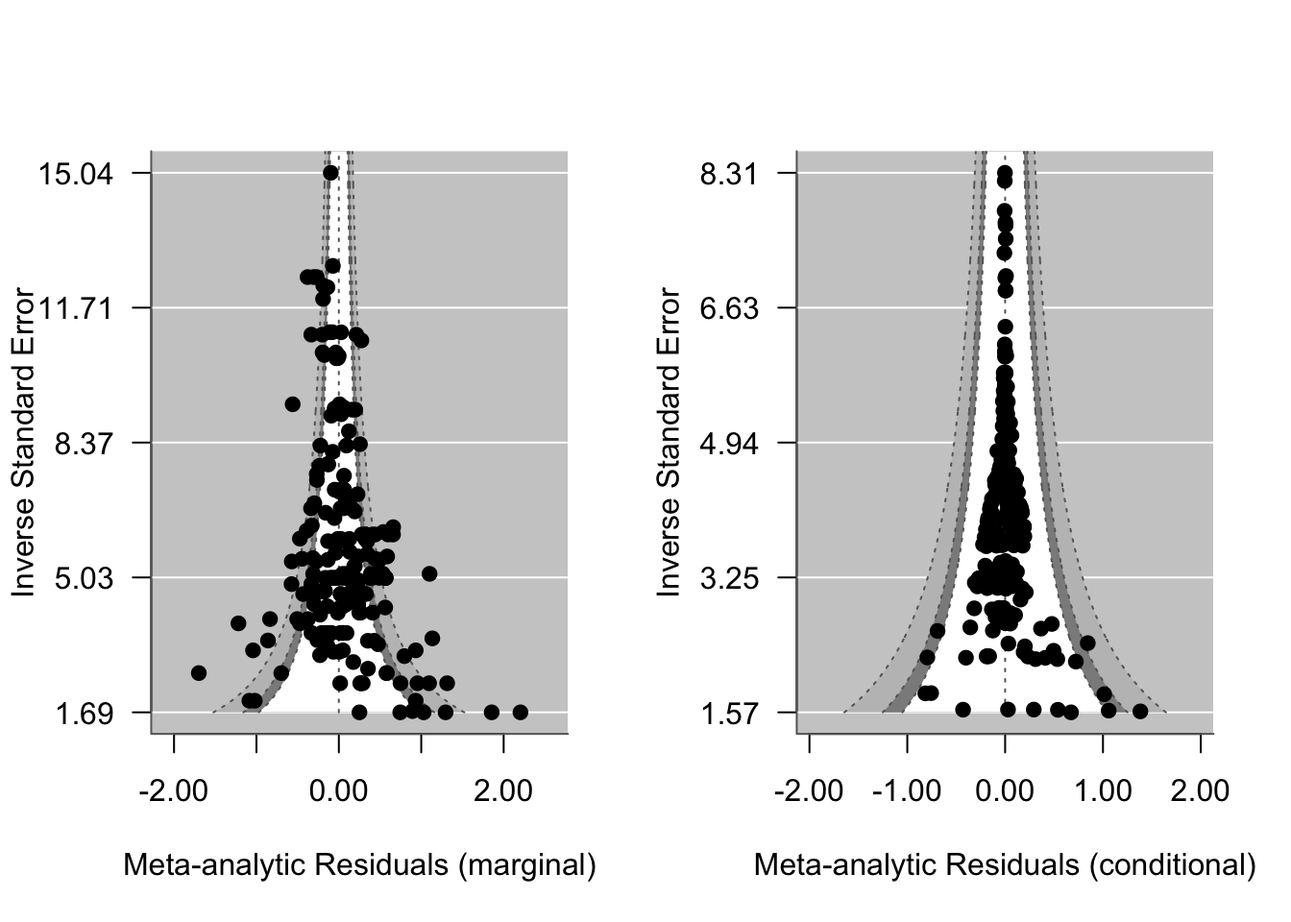
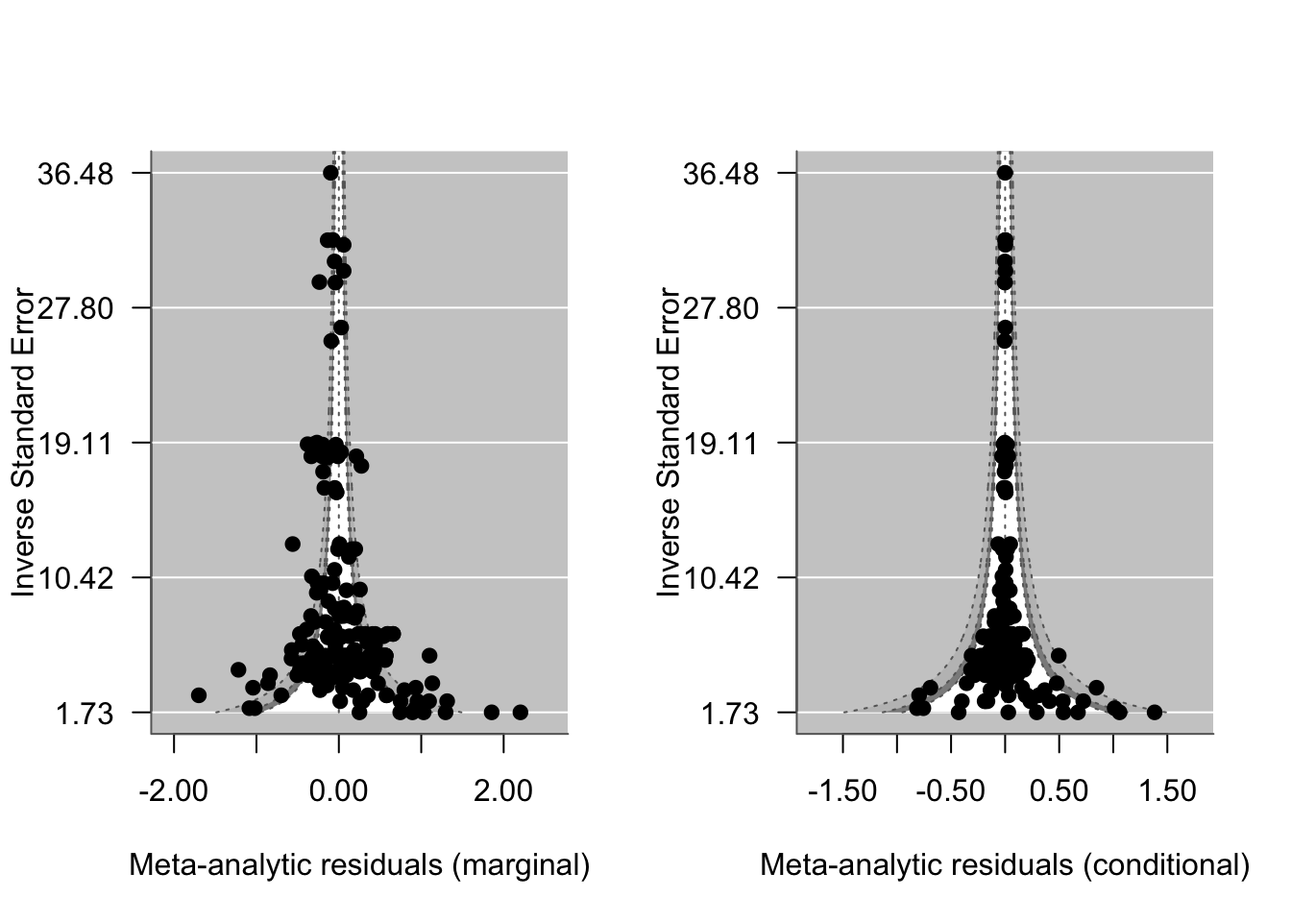
Found a mistake so fixed

diff --git a/_book/pub-bias1.html b/_book/pub-bias1.html
@@ -613,27 +613,34 @@ Signif. codes:  0 '***' 0.001 '**' 0.01 '*' 0.05 '.' 0.1 ' ' 1</code></pre>
 <div class="cell" data-layout-align="center">
 <details open="" class="code-fold">
 <summary>Code</summary>
-<div class="sourceCode cell-code" id="cb7"><pre class="sourceCode r code-with-copy"><code class="sourceCode r"><span id="cb7-1"><a href="#cb7-1" aria-hidden="true" tabindex="-1"></a><span class="co"># Extract residuals based on the fixed effect predictions (marginal) and the fixed and random effect (conditional)</span></span>
-<span id="cb7-2"><a href="#cb7-2" aria-hidden="true" tabindex="-1"></a>resid_marg <span class="ot">&lt;-</span> arnold_data_endo<span class="sc">$</span>Zr <span class="sc">-</span> <span class="fu">predict</span>(metareg)[[<span class="dv">1</span>]]     <span class="co"># Calculates the residuals based on fixed effects only</span></span>
-<span id="cb7-3"><a href="#cb7-3" aria-hidden="true" tabindex="-1"></a> vi_residm <span class="ot">&lt;-</span> arnold_data_endo<span class="sc">$</span>Zr_v <span class="sc">+</span> <span class="fu">predict</span>(metareg)[[<span class="dv">2</span>]]<span class="sc">^</span><span class="dv">2</span> <span class="co"># Adds prediction errors</span></span>
-<span id="cb7-4"><a href="#cb7-4" aria-hidden="true" tabindex="-1"></a> </span>
-<span id="cb7-5"><a href="#cb7-5" aria-hidden="true" tabindex="-1"></a><span class="co"># Conditional requires random effect blups for study (Ref) and effect size obs</span></span>
-<span id="cb7-6"><a href="#cb7-6" aria-hidden="true" tabindex="-1"></a> blups <span class="ot">&lt;-</span> <span class="fu">ranef</span>(metareg)  <span class="co"># extracts blups for each random effect. Stored as a list.</span></span>
-<span id="cb7-7"><a href="#cb7-7" aria-hidden="true" tabindex="-1"></a></span>
-<span id="cb7-8"><a href="#cb7-8" aria-hidden="true" tabindex="-1"></a> study_ef <span class="ot">&lt;-</span> blups<span class="sc">$</span>Ref[[<span class="dv">1</span>]][<span class="fu">match</span>(arnold_data_endo<span class="sc">$</span>Ref, <span class="fu">row.names</span>(blups<span class="sc">$</span>Ref))] <span class="co"># This code will expand each random effect for study out to match the study ID across the entire dataset</span></span>
-<span id="cb7-9"><a href="#cb7-9" aria-hidden="true" tabindex="-1"></a>study_vi <span class="ot">&lt;-</span> (blups<span class="sc">$</span>Ref[[<span class="dv">2</span>]][<span class="fu">match</span>(arnold_data_endo<span class="sc">$</span>Ref, <span class="fu">row.names</span>(blups<span class="sc">$</span>Ref))])<span class="sc">^</span><span class="dv">2</span></span>
-<span id="cb7-10"><a href="#cb7-10" aria-hidden="true" tabindex="-1"></a></span>
-<span id="cb7-11"><a href="#cb7-11" aria-hidden="true" tabindex="-1"></a>effect_effect <span class="ot">&lt;-</span> blups<span class="sc">$</span>obs[[<span class="dv">1</span>]]</span>
-<span id="cb7-12"><a href="#cb7-12" aria-hidden="true" tabindex="-1"></a>    vi_effect <span class="ot">&lt;-</span> blups<span class="sc">$</span>obs[[<span class="dv">1</span>]]<span class="sc">^</span><span class="dv">2</span></span>
-<span id="cb7-13"><a href="#cb7-13" aria-hidden="true" tabindex="-1"></a></span>
-<span id="cb7-14"><a href="#cb7-14" aria-hidden="true" tabindex="-1"></a> <span class="co"># Now we have everything we need to calculate residuals</span></span>
-<span id="cb7-15"><a href="#cb7-15" aria-hidden="true" tabindex="-1"></a>     resid_cond <span class="ot">&lt;-</span> arnold_data_endo<span class="sc">$</span>Zr <span class="sc">-</span> (<span class="fu">predict</span>(metareg)[[<span class="dv">1</span>]] <span class="sc">+</span> study_ef <span class="sc">+</span> effect_effect)</span>
-<span id="cb7-16"><a href="#cb7-16" aria-hidden="true" tabindex="-1"></a>  vi_resid_cond <span class="ot">&lt;-</span> vi_residm <span class="sc">+</span> study_vi <span class="sc">+</span> vi_effect</span>
-<span id="cb7-17"><a href="#cb7-17" aria-hidden="true" tabindex="-1"></a></span>
-<span id="cb7-18"><a href="#cb7-18" aria-hidden="true" tabindex="-1"></a><span class="co"># Lets make a funnel plot to visualize the data in relation to the precision, inverse sampling standard error, </span></span>
-<span id="cb7-19"><a href="#cb7-19" aria-hidden="true" tabindex="-1"></a><span class="fu">par</span>(<span class="at">mfrow =</span> <span class="fu">c</span>(<span class="dv">1</span>,<span class="dv">2</span>))</span>
-<span id="cb7-20"><a href="#cb7-20" aria-hidden="true" tabindex="-1"></a>metafor<span class="sc">::</span><span class="fu">funnel</span>(<span class="at">x =</span> resid_marg, <span class="at">vi =</span> vi_residm, <span class="at">yaxis =</span> <span class="st">"seinv"</span>, <span class="at">digits =</span> <span class="dv">2</span>, <span class="at">level =</span> <span class="fu">c</span>(<span class="fl">0.1</span>, <span class="fl">0.05</span>, <span class="fl">0.01</span>), <span class="at">shade =</span> <span class="fu">c</span>(<span class="st">"white"</span>, <span class="st">"gray55"</span>, <span class="st">"gray 75"</span>), <span class="at">las =</span> <span class="dv">1</span>, <span class="at">xlab =</span> <span class="st">"Meta-analytic Residuals (marginal)"</span>, <span class="at">legend =</span> <span class="cn">FALSE</span>)</span>
-<span id="cb7-21"><a href="#cb7-21" aria-hidden="true" tabindex="-1"></a>metafor<span class="sc">::</span><span class="fu">funnel</span>(<span class="at">x =</span> resid_cond, <span class="at">vi =</span> vi_resid_cond, <span class="at">yaxis =</span> <span class="st">"seinv"</span>, <span class="at">digits =</span> <span class="dv">2</span>, <span class="at">level =</span> <span class="fu">c</span>(<span class="fl">0.1</span>, <span class="fl">0.05</span>, <span class="fl">0.01</span>), <span class="at">shade =</span> <span class="fu">c</span>(<span class="st">"white"</span>, <span class="st">"gray55"</span>, <span class="st">"gray 75"</span>), <span class="at">las =</span> <span class="dv">1</span>, <span class="at">xlab =</span> <span class="st">"Meta-analytic Residuals (conditional)"</span>, <span class="at">legend =</span> <span class="cn">FALSE</span>)</span></code><button title="Copy to Clipboard" class="code-copy-button"><i class="bi"></i></button></pre></div>
+<div class="sourceCode cell-code" id="cb7"><pre class="sourceCode r code-with-copy"><code class="sourceCode r"><span id="cb7-1"><a href="#cb7-1" aria-hidden="true" tabindex="-1"></a><span class="co"># Marginal residuals: observed - fixed-effect prediction</span></span>
+<span id="cb7-2"><a href="#cb7-2" aria-hidden="true" tabindex="-1"></a>resid_marg <span class="ot">&lt;-</span> arnold_data_endo<span class="sc">$</span>Zr <span class="sc">-</span> <span class="fu">predict</span>(metareg)[[<span class="dv">1</span>]]</span>
+<span id="cb7-3"><a href="#cb7-3" aria-hidden="true" tabindex="-1"></a></span>
+<span id="cb7-4"><a href="#cb7-4" aria-hidden="true" tabindex="-1"></a><span class="co"># BLUPs for each random effect (study-level "Ref" and effect-size-level "obs")</span></span>
+<span id="cb7-5"><a href="#cb7-5" aria-hidden="true" tabindex="-1"></a>blups    <span class="ot">&lt;-</span> <span class="fu">ranef</span>(metareg)</span>
+<span id="cb7-6"><a href="#cb7-6" aria-hidden="true" tabindex="-1"></a>study_ef <span class="ot">&lt;-</span> blups<span class="sc">$</span>Ref[[<span class="dv">1</span>]][<span class="fu">match</span>(arnold_data_endo<span class="sc">$</span>Ref, <span class="fu">row.names</span>(blups<span class="sc">$</span>Ref))]</span>
+<span id="cb7-7"><a href="#cb7-7" aria-hidden="true" tabindex="-1"></a>obs_ef   <span class="ot">&lt;-</span> blups<span class="sc">$</span>obs[[<span class="dv">1</span>]]</span>
+<span id="cb7-8"><a href="#cb7-8" aria-hidden="true" tabindex="-1"></a></span>
+<span id="cb7-9"><a href="#cb7-9" aria-hidden="true" tabindex="-1"></a><span class="co"># Conditional residuals: observed - fixed - study BLUP - obs BLUP</span></span>
+<span id="cb7-10"><a href="#cb7-10" aria-hidden="true" tabindex="-1"></a>resid_cond <span class="ot">&lt;-</span> arnold_data_endo<span class="sc">$</span>Zr <span class="sc">-</span></span>
+<span id="cb7-11"><a href="#cb7-11" aria-hidden="true" tabindex="-1"></a>              (<span class="fu">predict</span>(metareg)[[<span class="dv">1</span>]] <span class="sc">+</span> study_ef <span class="sc">+</span> obs_ef)</span>
+<span id="cb7-12"><a href="#cb7-12" aria-hidden="true" tabindex="-1"></a></span>
+<span id="cb7-13"><a href="#cb7-13" aria-hidden="true" tabindex="-1"></a><span class="co"># Funnel plots use the sampling variance (Zr_v) on the y-axis so the</span></span>
+<span id="cb7-14"><a href="#cb7-14" aria-hidden="true" tabindex="-1"></a><span class="co"># theoretical cone reflects sampling-only spread; any scatter beyond the cone</span></span>
+<span id="cb7-15"><a href="#cb7-15" aria-hidden="true" tabindex="-1"></a><span class="co"># represents residual heterogeneity or bias.</span></span>
+<span id="cb7-16"><a href="#cb7-16" aria-hidden="true" tabindex="-1"></a><span class="fu">par</span>(<span class="at">mfrow =</span> <span class="fu">c</span>(<span class="dv">1</span>, <span class="dv">2</span>))</span>
+<span id="cb7-17"><a href="#cb7-17" aria-hidden="true" tabindex="-1"></a>metafor<span class="sc">::</span><span class="fu">funnel</span>(<span class="at">x =</span> resid_marg, <span class="at">vi =</span> arnold_data_endo<span class="sc">$</span>Zr_v,</span>
+<span id="cb7-18"><a href="#cb7-18" aria-hidden="true" tabindex="-1"></a>                <span class="at">yaxis =</span> <span class="st">"seinv"</span>, <span class="at">digits =</span> <span class="dv">2</span>,</span>
+<span id="cb7-19"><a href="#cb7-19" aria-hidden="true" tabindex="-1"></a>                <span class="at">level =</span> <span class="fu">c</span>(<span class="fl">0.1</span>, <span class="fl">0.05</span>, <span class="fl">0.01</span>),</span>
+<span id="cb7-20"><a href="#cb7-20" aria-hidden="true" tabindex="-1"></a>                <span class="at">shade =</span> <span class="fu">c</span>(<span class="st">"white"</span>, <span class="st">"gray55"</span>, <span class="st">"gray75"</span>),</span>
+<span id="cb7-21"><a href="#cb7-21" aria-hidden="true" tabindex="-1"></a>                <span class="at">las =</span> <span class="dv">1</span>, <span class="at">xlab =</span> <span class="st">"Meta-analytic residuals (marginal)"</span>,</span>
+<span id="cb7-22"><a href="#cb7-22" aria-hidden="true" tabindex="-1"></a>                <span class="at">legend =</span> <span class="cn">FALSE</span>)</span>
+<span id="cb7-23"><a href="#cb7-23" aria-hidden="true" tabindex="-1"></a>metafor<span class="sc">::</span><span class="fu">funnel</span>(<span class="at">x =</span> resid_cond, <span class="at">vi =</span> arnold_data_endo<span class="sc">$</span>Zr_v,</span>
+<span id="cb7-24"><a href="#cb7-24" aria-hidden="true" tabindex="-1"></a>                <span class="at">yaxis =</span> <span class="st">"seinv"</span>, <span class="at">digits =</span> <span class="dv">2</span>,</span>
+<span id="cb7-25"><a href="#cb7-25" aria-hidden="true" tabindex="-1"></a>                <span class="at">level =</span> <span class="fu">c</span>(<span class="fl">0.1</span>, <span class="fl">0.05</span>, <span class="fl">0.01</span>),</span>
+<span id="cb7-26"><a href="#cb7-26" aria-hidden="true" tabindex="-1"></a>                <span class="at">shade =</span> <span class="fu">c</span>(<span class="st">"white"</span>, <span class="st">"gray55"</span>, <span class="st">"gray75"</span>),</span>
+<span id="cb7-27"><a href="#cb7-27" aria-hidden="true" tabindex="-1"></a>                <span class="at">las =</span> <span class="dv">1</span>, <span class="at">xlab =</span> <span class="st">"Meta-analytic residuals (conditional)"</span>,</span>
+<span id="cb7-28"><a href="#cb7-28" aria-hidden="true" tabindex="-1"></a>                <span class="at">legend =</span> <span class="cn">FALSE</span>)</span></code><button title="Copy to Clipboard" class="code-copy-button"><i class="bi"></i></button></pre></div>
 </details>
 <div class="cell-output-display">
 <div id="fig-funnelresid" class="quarto-float quarto-figure quarto-figure-center anchored" data-fig-align="center">
@@ -1339,64 +1346,71 @@ Figure&nbsp;9.2: Funnel plot of meta-analytic residuals against precision (1 / S
 <span id="cb8-161"><a href="#cb8-161" aria-hidden="true" tabindex="-1"></a><span class="co">#| fig-align: center</span></span>
 <span id="cb8-162"><a href="#cb8-162" aria-hidden="true" tabindex="-1"></a><span class="co">#| fig-cap: "Funnel plot of meta-analytic residuals against precision (1 / SE). The dotted lines are the theoretical 95% sampling variance intervals - the interval with which we expect effect size estimates to fall within if only sampling variance drives differences in effects. Shaded regions represent the p-value of studies. The white region indicates studies where the p-value is between 0.1 and 1; dark gray where the p-value of studies is between 0.05 and 0.1 and the lighter gray regions where the p-value of studies is significant."</span></span>
 <span id="cb8-163"><a href="#cb8-163" aria-hidden="true" tabindex="-1"></a></span>
-<span id="cb8-164"><a href="#cb8-164" aria-hidden="true" tabindex="-1"></a><span class="co"># Extract residuals based on the fixed effect predictions (marginal) and the fixed and random effect (conditional)</span></span>
-<span id="cb8-165"><a href="#cb8-165" aria-hidden="true" tabindex="-1"></a>resid_marg <span class="ot">&lt;-</span> arnold_data_endo<span class="sc">$</span>Zr <span class="sc">-</span> <span class="fu">predict</span>(metareg)[[<span class="dv">1</span>]]     <span class="co"># Calculates the residuals based on fixed effects only</span></span>
-<span id="cb8-166"><a href="#cb8-166" aria-hidden="true" tabindex="-1"></a> vi_residm <span class="ot">&lt;-</span> arnold_data_endo<span class="sc">$</span>Zr_v <span class="sc">+</span> <span class="fu">predict</span>(metareg)[[<span class="dv">2</span>]]<span class="sc">^</span><span class="dv">2</span> <span class="co"># Adds prediction errors</span></span>
-<span id="cb8-167"><a href="#cb8-167" aria-hidden="true" tabindex="-1"></a> </span>
-<span id="cb8-168"><a href="#cb8-168" aria-hidden="true" tabindex="-1"></a><span class="co"># Conditional requires random effect blups for study (Ref) and effect size obs</span></span>
-<span id="cb8-169"><a href="#cb8-169" aria-hidden="true" tabindex="-1"></a> blups <span class="ot">&lt;-</span> <span class="fu">ranef</span>(metareg)  <span class="co"># extracts blups for each random effect. Stored as a list.</span></span>
-<span id="cb8-170"><a href="#cb8-170" aria-hidden="true" tabindex="-1"></a></span>
-<span id="cb8-171"><a href="#cb8-171" aria-hidden="true" tabindex="-1"></a> study_ef <span class="ot">&lt;-</span> blups<span class="sc">$</span>Ref[[<span class="dv">1</span>]][<span class="fu">match</span>(arnold_data_endo<span class="sc">$</span>Ref, <span class="fu">row.names</span>(blups<span class="sc">$</span>Ref))] <span class="co"># This code will expand each random effect for study out to match the study ID across the entire dataset</span></span>
-<span id="cb8-172"><a href="#cb8-172" aria-hidden="true" tabindex="-1"></a>study_vi <span class="ot">&lt;-</span> (blups<span class="sc">$</span>Ref[[<span class="dv">2</span>]][<span class="fu">match</span>(arnold_data_endo<span class="sc">$</span>Ref, <span class="fu">row.names</span>(blups<span class="sc">$</span>Ref))])<span class="sc">^</span><span class="dv">2</span></span>
-<span id="cb8-173"><a href="#cb8-173" aria-hidden="true" tabindex="-1"></a></span>
-<span id="cb8-174"><a href="#cb8-174" aria-hidden="true" tabindex="-1"></a>effect_effect <span class="ot">&lt;-</span> blups<span class="sc">$</span>obs[[<span class="dv">1</span>]]</span>
-<span id="cb8-175"><a href="#cb8-175" aria-hidden="true" tabindex="-1"></a>    vi_effect <span class="ot">&lt;-</span> blups<span class="sc">$</span>obs[[<span class="dv">1</span>]]<span class="sc">^</span><span class="dv">2</span></span>
-<span id="cb8-176"><a href="#cb8-176" aria-hidden="true" tabindex="-1"></a></span>
-<span id="cb8-177"><a href="#cb8-177" aria-hidden="true" tabindex="-1"></a> <span class="co"># Now we have everything we need to calculate residuals</span></span>
-<span id="cb8-178"><a href="#cb8-178" aria-hidden="true" tabindex="-1"></a>     resid_cond <span class="ot">&lt;-</span> arnold_data_endo<span class="sc">$</span>Zr <span class="sc">-</span> (<span class="fu">predict</span>(metareg)[[<span class="dv">1</span>]] <span class="sc">+</span> study_ef <span class="sc">+</span> effect_effect)</span>
-<span id="cb8-179"><a href="#cb8-179" aria-hidden="true" tabindex="-1"></a>  vi_resid_cond <span class="ot">&lt;-</span> vi_residm <span class="sc">+</span> study_vi <span class="sc">+</span> vi_effect</span>
-<span id="cb8-180"><a href="#cb8-180" aria-hidden="true" tabindex="-1"></a></span>
-<span id="cb8-181"><a href="#cb8-181" aria-hidden="true" tabindex="-1"></a><span class="co"># Lets make a funnel plot to visualize the data in relation to the precision, inverse sampling standard error, </span></span>
-<span id="cb8-182"><a href="#cb8-182" aria-hidden="true" tabindex="-1"></a><span class="fu">par</span>(<span class="at">mfrow =</span> <span class="fu">c</span>(<span class="dv">1</span>,<span class="dv">2</span>))</span>
-<span id="cb8-183"><a href="#cb8-183" aria-hidden="true" tabindex="-1"></a>metafor<span class="sc">::</span><span class="fu">funnel</span>(<span class="at">x =</span> resid_marg, <span class="at">vi =</span> vi_residm, <span class="at">yaxis =</span> <span class="st">"seinv"</span>, <span class="at">digits =</span> <span class="dv">2</span>, <span class="at">level =</span> <span class="fu">c</span>(<span class="fl">0.1</span>, <span class="fl">0.05</span>, <span class="fl">0.01</span>), <span class="at">shade =</span> <span class="fu">c</span>(<span class="st">"white"</span>, <span class="st">"gray55"</span>, <span class="st">"gray 75"</span>), <span class="at">las =</span> <span class="dv">1</span>, <span class="at">xlab =</span> <span class="st">"Meta-analytic Residuals (marginal)"</span>, <span class="at">legend =</span> <span class="cn">FALSE</span>)</span>
-<span id="cb8-184"><a href="#cb8-184" aria-hidden="true" tabindex="-1"></a>metafor<span class="sc">::</span><span class="fu">funnel</span>(<span class="at">x =</span> resid_cond, <span class="at">vi =</span> vi_resid_cond, <span class="at">yaxis =</span> <span class="st">"seinv"</span>, <span class="at">digits =</span> <span class="dv">2</span>, <span class="at">level =</span> <span class="fu">c</span>(<span class="fl">0.1</span>, <span class="fl">0.05</span>, <span class="fl">0.01</span>), <span class="at">shade =</span> <span class="fu">c</span>(<span class="st">"white"</span>, <span class="st">"gray55"</span>, <span class="st">"gray 75"</span>), <span class="at">las =</span> <span class="dv">1</span>, <span class="at">xlab =</span> <span class="st">"Meta-analytic Residuals (conditional)"</span>, <span class="at">legend =</span> <span class="cn">FALSE</span>)</span>
-<span id="cb8-185"><a href="#cb8-185" aria-hidden="true" tabindex="-1"></a><span class="in">```</span></span>
-<span id="cb8-186"><a href="#cb8-186" aria-hidden="true" tabindex="-1"></a></span>
-<span id="cb8-187"><a href="#cb8-187" aria-hidden="true" tabindex="-1"></a></span>
-<span id="cb8-188"><a href="#cb8-188" aria-hidden="true" tabindex="-1"></a><span class="fu">#### **How do our conclusions about the possibility of publication bias change by plotting residuals?**</span></span>
-<span id="cb8-189"><a href="#cb8-189" aria-hidden="true" tabindex="-1"></a></span>
-<span id="cb8-190"><a href="#cb8-190" aria-hidden="true" tabindex="-1"></a>::: {.panel-tabset}</span>
-<span id="cb8-191"><a href="#cb8-191" aria-hidden="true" tabindex="-1"></a></span>
-<span id="cb8-192"><a href="#cb8-192" aria-hidden="true" tabindex="-1"></a><span class="fu">## Task!</span></span>
+<span id="cb8-164"><a href="#cb8-164" aria-hidden="true" tabindex="-1"></a><span class="co"># Marginal residuals: observed - fixed-effect prediction</span></span>
+<span id="cb8-165"><a href="#cb8-165" aria-hidden="true" tabindex="-1"></a>resid_marg <span class="ot">&lt;-</span> arnold_data_endo<span class="sc">$</span>Zr <span class="sc">-</span> <span class="fu">predict</span>(metareg)[[<span class="dv">1</span>]]</span>
+<span id="cb8-166"><a href="#cb8-166" aria-hidden="true" tabindex="-1"></a></span>
+<span id="cb8-167"><a href="#cb8-167" aria-hidden="true" tabindex="-1"></a><span class="co"># BLUPs for each random effect (study-level "Ref" and effect-size-level "obs")</span></span>
+<span id="cb8-168"><a href="#cb8-168" aria-hidden="true" tabindex="-1"></a>blups    <span class="ot">&lt;-</span> <span class="fu">ranef</span>(metareg)</span>
+<span id="cb8-169"><a href="#cb8-169" aria-hidden="true" tabindex="-1"></a>study_ef <span class="ot">&lt;-</span> blups<span class="sc">$</span>Ref[[<span class="dv">1</span>]][<span class="fu">match</span>(arnold_data_endo<span class="sc">$</span>Ref, <span class="fu">row.names</span>(blups<span class="sc">$</span>Ref))]</span>
+<span id="cb8-170"><a href="#cb8-170" aria-hidden="true" tabindex="-1"></a>obs_ef   <span class="ot">&lt;-</span> blups<span class="sc">$</span>obs[[<span class="dv">1</span>]]</span>
+<span id="cb8-171"><a href="#cb8-171" aria-hidden="true" tabindex="-1"></a></span>
+<span id="cb8-172"><a href="#cb8-172" aria-hidden="true" tabindex="-1"></a><span class="co"># Conditional residuals: observed - fixed - study BLUP - obs BLUP</span></span>
+<span id="cb8-173"><a href="#cb8-173" aria-hidden="true" tabindex="-1"></a>resid_cond <span class="ot">&lt;-</span> arnold_data_endo<span class="sc">$</span>Zr <span class="sc">-</span></span>
+<span id="cb8-174"><a href="#cb8-174" aria-hidden="true" tabindex="-1"></a>              (<span class="fu">predict</span>(metareg)[[<span class="dv">1</span>]] <span class="sc">+</span> study_ef <span class="sc">+</span> obs_ef)</span>
+<span id="cb8-175"><a href="#cb8-175" aria-hidden="true" tabindex="-1"></a></span>
+<span id="cb8-176"><a href="#cb8-176" aria-hidden="true" tabindex="-1"></a><span class="co"># Funnel plots use the sampling variance (Zr_v) on the y-axis so the</span></span>
+<span id="cb8-177"><a href="#cb8-177" aria-hidden="true" tabindex="-1"></a><span class="co"># theoretical cone reflects sampling-only spread; any scatter beyond the cone</span></span>
+<span id="cb8-178"><a href="#cb8-178" aria-hidden="true" tabindex="-1"></a><span class="co"># represents residual heterogeneity or bias.</span></span>
+<span id="cb8-179"><a href="#cb8-179" aria-hidden="true" tabindex="-1"></a><span class="fu">par</span>(<span class="at">mfrow =</span> <span class="fu">c</span>(<span class="dv">1</span>, <span class="dv">2</span>))</span>
+<span id="cb8-180"><a href="#cb8-180" aria-hidden="true" tabindex="-1"></a>metafor<span class="sc">::</span><span class="fu">funnel</span>(<span class="at">x =</span> resid_marg, <span class="at">vi =</span> arnold_data_endo<span class="sc">$</span>Zr_v,</span>
+<span id="cb8-181"><a href="#cb8-181" aria-hidden="true" tabindex="-1"></a>                <span class="at">yaxis =</span> <span class="st">"seinv"</span>, <span class="at">digits =</span> <span class="dv">2</span>,</span>
+<span id="cb8-182"><a href="#cb8-182" aria-hidden="true" tabindex="-1"></a>                <span class="at">level =</span> <span class="fu">c</span>(<span class="fl">0.1</span>, <span class="fl">0.05</span>, <span class="fl">0.01</span>),</span>
+<span id="cb8-183"><a href="#cb8-183" aria-hidden="true" tabindex="-1"></a>                <span class="at">shade =</span> <span class="fu">c</span>(<span class="st">"white"</span>, <span class="st">"gray55"</span>, <span class="st">"gray75"</span>),</span>
+<span id="cb8-184"><a href="#cb8-184" aria-hidden="true" tabindex="-1"></a>                <span class="at">las =</span> <span class="dv">1</span>, <span class="at">xlab =</span> <span class="st">"Meta-analytic residuals (marginal)"</span>,</span>
+<span id="cb8-185"><a href="#cb8-185" aria-hidden="true" tabindex="-1"></a>                <span class="at">legend =</span> <span class="cn">FALSE</span>)</span>
+<span id="cb8-186"><a href="#cb8-186" aria-hidden="true" tabindex="-1"></a>metafor<span class="sc">::</span><span class="fu">funnel</span>(<span class="at">x =</span> resid_cond, <span class="at">vi =</span> arnold_data_endo<span class="sc">$</span>Zr_v,</span>
+<span id="cb8-187"><a href="#cb8-187" aria-hidden="true" tabindex="-1"></a>                <span class="at">yaxis =</span> <span class="st">"seinv"</span>, <span class="at">digits =</span> <span class="dv">2</span>,</span>
+<span id="cb8-188"><a href="#cb8-188" aria-hidden="true" tabindex="-1"></a>                <span class="at">level =</span> <span class="fu">c</span>(<span class="fl">0.1</span>, <span class="fl">0.05</span>, <span class="fl">0.01</span>),</span>
+<span id="cb8-189"><a href="#cb8-189" aria-hidden="true" tabindex="-1"></a>                <span class="at">shade =</span> <span class="fu">c</span>(<span class="st">"white"</span>, <span class="st">"gray55"</span>, <span class="st">"gray75"</span>),</span>
+<span id="cb8-190"><a href="#cb8-190" aria-hidden="true" tabindex="-1"></a>                <span class="at">las =</span> <span class="dv">1</span>, <span class="at">xlab =</span> <span class="st">"Meta-analytic residuals (conditional)"</span>,</span>
+<span id="cb8-191"><a href="#cb8-191" aria-hidden="true" tabindex="-1"></a>                <span class="at">legend =</span> <span class="cn">FALSE</span>)</span>
+<span id="cb8-192"><a href="#cb8-192" aria-hidden="true" tabindex="-1"></a><span class="in">```</span></span>
 <span id="cb8-193"><a href="#cb8-193" aria-hidden="true" tabindex="-1"></a></span>
-<span id="cb8-194"><a href="#cb8-194" aria-hidden="true" tabindex="-1"></a><span class="at">&gt;**After looking at the new funnel plots (@fig-funnelresid) that account for varying amounts of heterogeneity in the model would you say our conclusions about publication bias being present or not change at all? If not, why not?** </span></span>
-<span id="cb8-195"><a href="#cb8-195" aria-hidden="true" tabindex="-1"></a></span>
-<span id="cb8-196"><a href="#cb8-196" aria-hidden="true" tabindex="-1"></a><span class="dt">&lt;</span><span class="kw">br</span><span class="dt">&gt;</span></span>
-<span id="cb8-197"><a href="#cb8-197" aria-hidden="true" tabindex="-1"></a></span>
-<span id="cb8-198"><a href="#cb8-198" aria-hidden="true" tabindex="-1"></a><span class="fu">## Answer!</span></span>
-<span id="cb8-199"><a href="#cb8-199" aria-hidden="true" tabindex="-1"></a></span>
-<span id="cb8-200"><a href="#cb8-200" aria-hidden="true" tabindex="-1"></a><span class="at">&gt;Maybe. Even after accounting for factors that explain (or estimate) heterogeneity in the data we still see areas of the funnel plot that appear to be missing effect size estimates, notably for the marginal residuals we still see the missing effects on the left side. However, when looking at the conditional (taking into account fixed and random effects) we see that there is a gap yet when precision is low, but we are still seeing some effect size estimates being published with very low precision, which is not really what we might expect from publication bias.</span></span>
-<span id="cb8-201"><a href="#cb8-201" aria-hidden="true" tabindex="-1"></a></span>
-<span id="cb8-202"><a href="#cb8-202" aria-hidden="true" tabindex="-1"></a>:::</span>
-<span id="cb8-203"><a href="#cb8-203" aria-hidden="true" tabindex="-1"></a></span>
-<span id="cb8-204"><a href="#cb8-204" aria-hidden="true" tabindex="-1"></a><span class="dt">&lt;</span><span class="kw">br</span><span class="dt">&gt;</span> </span>
-<span id="cb8-205"><a href="#cb8-205" aria-hidden="true" tabindex="-1"></a></span>
-<span id="cb8-206"><a href="#cb8-206" aria-hidden="true" tabindex="-1"></a><span class="fu">## **Conclusions**</span></span>
-<span id="cb8-207"><a href="#cb8-207" aria-hidden="true" tabindex="-1"></a>While funnel plots can be useful they do have clear limitations. @Nakagawa2021c overview the many assumptions being made, particularly when using residuals, and how non-independence of sampling errors can cause problems. In particular, residual funnel plots inherit the dependence structure of the fitted model, and @Yang2024 recently showed that ignoring such dependence together with selective reporting can *overestimate* effect sizes on average while simultaneously *underestimating* standard errors. Visual assessment is therefore best viewed as a first pass -- in the next section, we'll overview more sophisticated and less subjective ways to assess and correct for publication bias, including the multilevel Egger-type regression of @Nakagawa2021b and the bias-robust weighting + cluster-robust variance framework of @Yang2024.</span>
+<span id="cb8-194"><a href="#cb8-194" aria-hidden="true" tabindex="-1"></a></span>
+<span id="cb8-195"><a href="#cb8-195" aria-hidden="true" tabindex="-1"></a><span class="fu">#### **How do our conclusions about the possibility of publication bias change by plotting residuals?**</span></span>
+<span id="cb8-196"><a href="#cb8-196" aria-hidden="true" tabindex="-1"></a></span>
+<span id="cb8-197"><a href="#cb8-197" aria-hidden="true" tabindex="-1"></a>::: {.panel-tabset}</span>
+<span id="cb8-198"><a href="#cb8-198" aria-hidden="true" tabindex="-1"></a></span>
+<span id="cb8-199"><a href="#cb8-199" aria-hidden="true" tabindex="-1"></a><span class="fu">## Task!</span></span>
+<span id="cb8-200"><a href="#cb8-200" aria-hidden="true" tabindex="-1"></a></span>
+<span id="cb8-201"><a href="#cb8-201" aria-hidden="true" tabindex="-1"></a><span class="at">&gt;**After looking at the new funnel plots (@fig-funnelresid) that account for varying amounts of heterogeneity in the model would you say our conclusions about publication bias being present or not change at all? If not, why not?** </span></span>
+<span id="cb8-202"><a href="#cb8-202" aria-hidden="true" tabindex="-1"></a></span>
+<span id="cb8-203"><a href="#cb8-203" aria-hidden="true" tabindex="-1"></a><span class="dt">&lt;</span><span class="kw">br</span><span class="dt">&gt;</span></span>
+<span id="cb8-204"><a href="#cb8-204" aria-hidden="true" tabindex="-1"></a></span>
+<span id="cb8-205"><a href="#cb8-205" aria-hidden="true" tabindex="-1"></a><span class="fu">## Answer!</span></span>
+<span id="cb8-206"><a href="#cb8-206" aria-hidden="true" tabindex="-1"></a></span>
+<span id="cb8-207"><a href="#cb8-207" aria-hidden="true" tabindex="-1"></a><span class="at">&gt;Maybe. Even after accounting for factors that explain (or estimate) heterogeneity in the data we still see areas of the funnel plot that appear to be missing effect size estimates, notably for the marginal residuals we still see the missing effects on the left side. However, when looking at the conditional (taking into account fixed and random effects) we see that there is a gap yet when precision is low, but we are still seeing some effect size estimates being published with very low precision, which is not really what we might expect from publication bias.</span></span>
 <span id="cb8-208"><a href="#cb8-208" aria-hidden="true" tabindex="-1"></a></span>
-<span id="cb8-209"><a href="#cb8-209" aria-hidden="true" tabindex="-1"></a><span class="fu">## **References**</span></span>
+<span id="cb8-209"><a href="#cb8-209" aria-hidden="true" tabindex="-1"></a>:::</span>
 <span id="cb8-210"><a href="#cb8-210" aria-hidden="true" tabindex="-1"></a></span>
-<span id="cb8-211"><a href="#cb8-211" aria-hidden="true" tabindex="-1"></a><span class="dt">&lt;</span><span class="kw">div</span><span class="ot"> id</span><span class="op">=</span><span class="st">"refs"</span><span class="dt">&gt;&lt;/</span><span class="kw">div</span><span class="dt">&gt;</span></span>
-<span id="cb8-212"><a href="#cb8-212" aria-hidden="true" tabindex="-1"></a><span class="dt">&lt;</span><span class="kw">br</span><span class="dt">&gt;</span> </span>
-<span id="cb8-213"><a href="#cb8-213" aria-hidden="true" tabindex="-1"></a></span>
-<span id="cb8-214"><a href="#cb8-214" aria-hidden="true" tabindex="-1"></a><span class="fu">## **Session Information**</span></span>
+<span id="cb8-211"><a href="#cb8-211" aria-hidden="true" tabindex="-1"></a><span class="dt">&lt;</span><span class="kw">br</span><span class="dt">&gt;</span> </span>
+<span id="cb8-212"><a href="#cb8-212" aria-hidden="true" tabindex="-1"></a></span>
+<span id="cb8-213"><a href="#cb8-213" aria-hidden="true" tabindex="-1"></a><span class="fu">## **Conclusions**</span></span>
+<span id="cb8-214"><a href="#cb8-214" aria-hidden="true" tabindex="-1"></a>While funnel plots can be useful they do have clear limitations. @Nakagawa2021c overview the many assumptions being made, particularly when using residuals, and how non-independence of sampling errors can cause problems. In particular, residual funnel plots inherit the dependence structure of the fitted model, and @Yang2024 recently showed that ignoring such dependence together with selective reporting can *overestimate* effect sizes on average while simultaneously *underestimating* standard errors. Visual assessment is therefore best viewed as a first pass -- in the next section, we'll overview more sophisticated and less subjective ways to assess and correct for publication bias, including the multilevel Egger-type regression of @Nakagawa2021b and the bias-robust weighting + cluster-robust variance framework of @Yang2024.</span>
 <span id="cb8-215"><a href="#cb8-215" aria-hidden="true" tabindex="-1"></a></span>
-<span id="cb8-218"><a href="#cb8-218" aria-hidden="true" tabindex="-1"></a><span class="in">```{r}</span></span>
-<span id="cb8-219"><a href="#cb8-219" aria-hidden="true" tabindex="-1"></a><span class="co">#| label: sessioninfo</span></span>
-<span id="cb8-220"><a href="#cb8-220" aria-hidden="true" tabindex="-1"></a><span class="co">#| echo: false</span></span>
-<span id="cb8-221"><a href="#cb8-221" aria-hidden="true" tabindex="-1"></a></span>
-<span id="cb8-222"><a href="#cb8-222" aria-hidden="true" tabindex="-1"></a><span class="fu">pander</span>(<span class="fu">sessionInfo</span>(), <span class="at">locale =</span> <span class="cn">FALSE</span>)</span>
-<span id="cb8-223"><a href="#cb8-223" aria-hidden="true" tabindex="-1"></a><span class="in">```</span></span>
+<span id="cb8-216"><a href="#cb8-216" aria-hidden="true" tabindex="-1"></a><span class="fu">## **References**</span></span>
+<span id="cb8-217"><a href="#cb8-217" aria-hidden="true" tabindex="-1"></a></span>
+<span id="cb8-218"><a href="#cb8-218" aria-hidden="true" tabindex="-1"></a><span class="dt">&lt;</span><span class="kw">div</span><span class="ot"> id</span><span class="op">=</span><span class="st">"refs"</span><span class="dt">&gt;&lt;/</span><span class="kw">div</span><span class="dt">&gt;</span></span>
+<span id="cb8-219"><a href="#cb8-219" aria-hidden="true" tabindex="-1"></a><span class="dt">&lt;</span><span class="kw">br</span><span class="dt">&gt;</span> </span>
+<span id="cb8-220"><a href="#cb8-220" aria-hidden="true" tabindex="-1"></a></span>
+<span id="cb8-221"><a href="#cb8-221" aria-hidden="true" tabindex="-1"></a><span class="fu">## **Session Information**</span></span>
+<span id="cb8-222"><a href="#cb8-222" aria-hidden="true" tabindex="-1"></a></span>
+<span id="cb8-225"><a href="#cb8-225" aria-hidden="true" tabindex="-1"></a><span class="in">```{r}</span></span>
+<span id="cb8-226"><a href="#cb8-226" aria-hidden="true" tabindex="-1"></a><span class="co">#| label: sessioninfo</span></span>
+<span id="cb8-227"><a href="#cb8-227" aria-hidden="true" tabindex="-1"></a><span class="co">#| echo: false</span></span>
+<span id="cb8-228"><a href="#cb8-228" aria-hidden="true" tabindex="-1"></a></span>
+<span id="cb8-229"><a href="#cb8-229" aria-hidden="true" tabindex="-1"></a><span class="fu">pander</span>(<span class="fu">sessionInfo</span>(), <span class="at">locale =</span> <span class="cn">FALSE</span>)</span>
+<span id="cb8-230"><a href="#cb8-230" aria-hidden="true" tabindex="-1"></a><span class="in">```</span></span>
 </code><button title="Copy to Clipboard" class="code-copy-button" data-in-quarto-modal=""><i class="bi"></i></button></pre></div>
 </div></div></div></div></div>
 </div> <!-- /content -->
